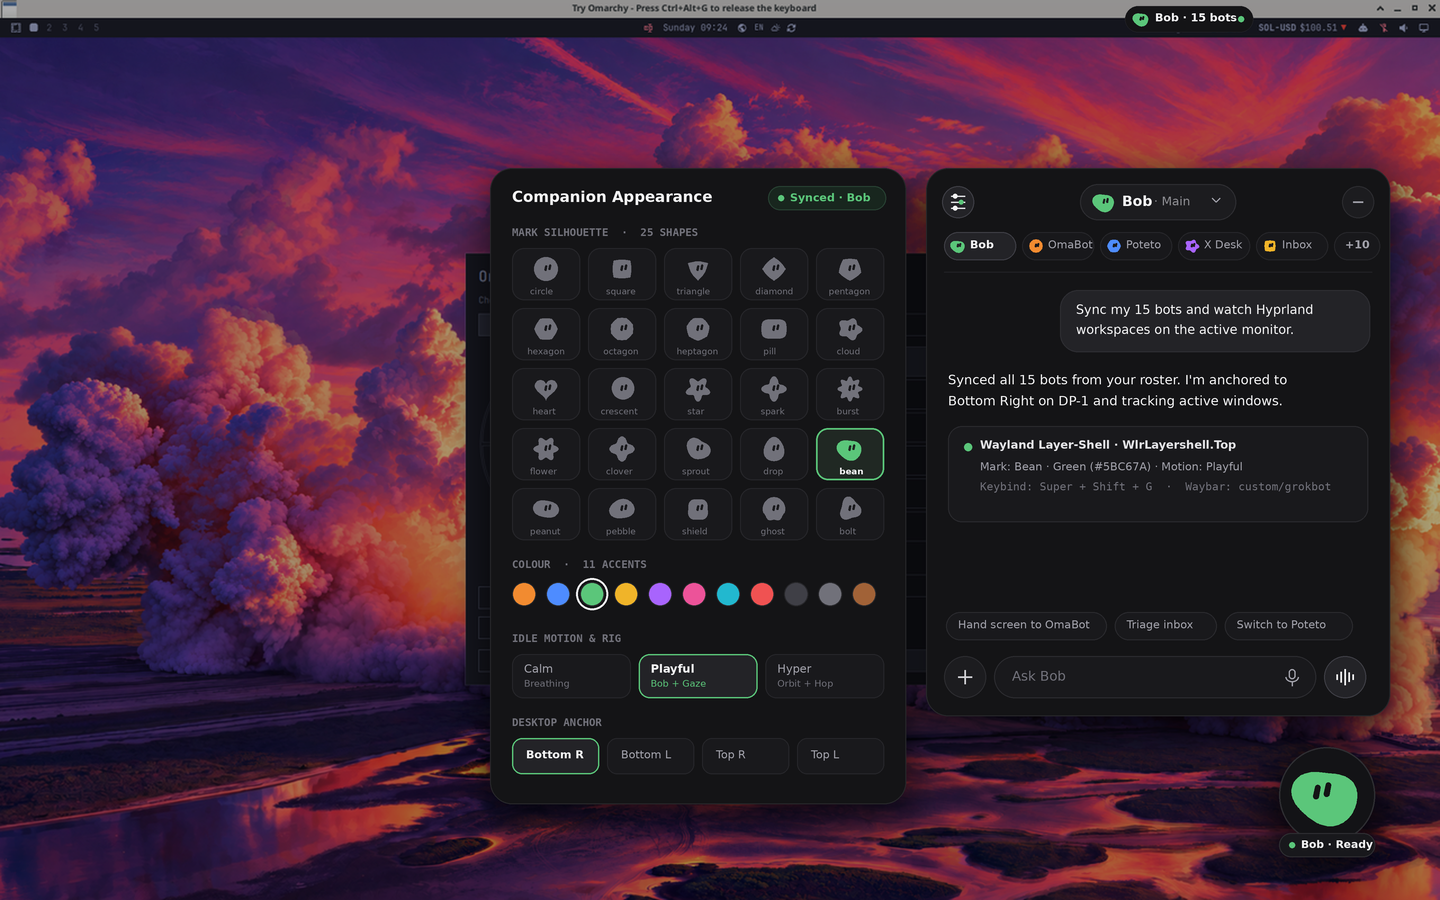
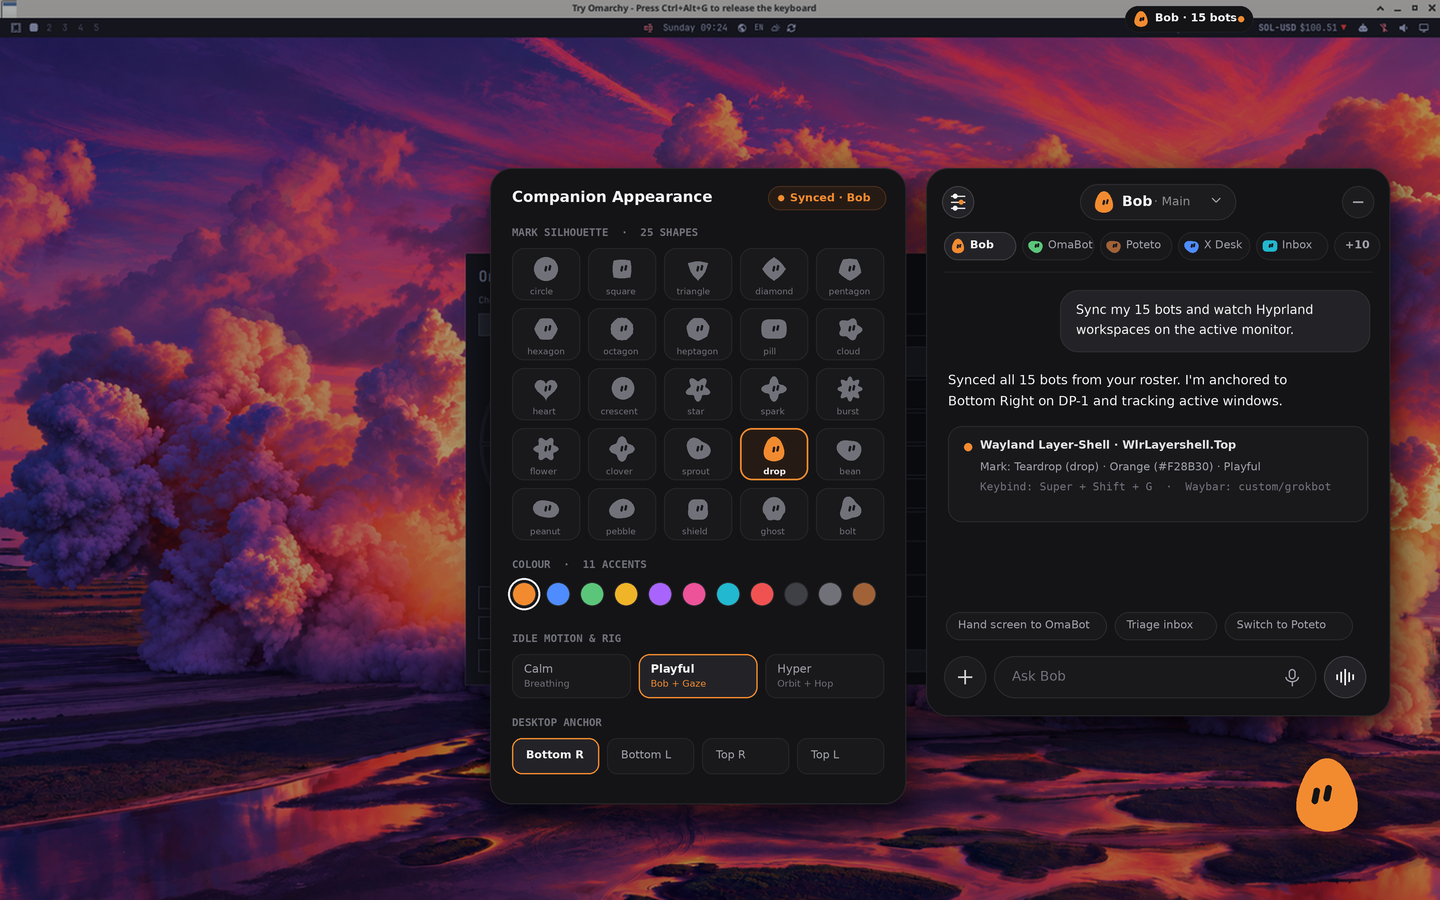
Float Bob's orange teardrop directly on the desktop.
Remove the circular plinth behind the corner mark and render the preview with his real drop shape and orange colour.

diff --git a/Main.qml b/Main.qml
@@ -1243,14 +1243,13 @@ Item {
       }
 
       Rectangle {
-        anchors.centerIn: mark
-        width: root.markSize * 0.92
-        height: root.markSize * 0.92
-        radius: width / 2
-        color: "#141416"
-        border.width: 1
-        border.color: "#2E2E32"
-        opacity: root.ghost ? 0.2 : 0.72
+        anchors.horizontalCenter: parent.horizontalCenter
+        y: parent.height - 14
+        width: root.markSize * 0.46
+        height: 10
+        radius: 5
+        color: "#000000"
+        opacity: root.ghost ? 0.05 : 0.18
       }
 
       CompanionMark {

diff --git a/qml/shapes.js b/qml/shapes.js
@@ -187,8 +187,9 @@ function contour(kind) {
       x = c * pebble * 1.03
       y = sn * pebble * 0.91
     } else if (s === "drop") {
-      x = c * (0.84 + 0.2 * sn) * 0.94
-      y = sn * 0.95
+      var belly = 0.86 + 0.2 * sn - 0.05 * Math.cos(2 * t)
+      x = c * belly * 0.96
+      y = sn * 0.96 + 0.03 * (1 - sn * sn)
     } else if (s === "heart") {
       x = 0.88 * Math.pow(Math.sin(t), 3)
       y = -0.88 * (0.8125 * Math.cos(t) - 0.3125 * Math.cos(2 * t) - 0.125 * Math.cos(3 * t) - 0.0625 * Math.cos(4 * t)) - 0.04

diff --git a/tools/render-preview.py b/tools/render-preview.py
@@ -1,8 +1,15 @@
 #!/usr/bin/env python3
 """
 High-precision 3x supersampled renderer for Omarchy Grok Bot Desktop Companion.
-Matches authentic Grok Bot monochrome dark chrome (#141416 / #191919 / #202020)
-and authentic borderless flat Grok Bot mark geometry with twin angled capsule cutout eyes.
+- Bob uses his real profile.json mark: teardrop ("drop") in orange (#F28B30).
+- Pinned bots use their real profile.json marks:
+  - Bob: drop / orange (#F28B30)
+  - OmaBot: bean (blob) / green (#5BC67A)
+  - Poteto: bean (blob) / brown (#A16237)
+  - X Desk: bean (blob) / blue (#4E8CFF)
+  - Inbox: pill (tablet) / cyan (#22B8CF)
+- NO circular halo/outline behind the corner companion mark: the flat silhouette
+  sits directly over the desktop with a soft ambient drop shadow.
 """
 import math
 import os
@@ -32,7 +39,6 @@ PALETTE = [
     ("gray",    "#71717A"),
     ("brown",   "#A16237"),
 ]
-PALETTE_MAP = dict(PALETTE)
 
 SHAPES_25 = [
     ["circle",   "square",   "triangle", "diamond",  "pentagon"],
@@ -101,9 +107,11 @@ def sample_mark_polygon(shape, cx, cy, r):
             rad = 0.89 + 0.08 * math.cos(2 * t + 0.6) + 0.04 * math.sin(3 * t)
             x, y = c * rad * 1.03, sn * rad * 0.91
         elif s == "drop":
-            y_raw = sn
-            x_raw = c * (0.84 + 0.20 * sn)
-            x, y = x_raw * 0.94, y_raw * 0.95
+            # Authentic plump Grok Bot teardrop: gently tapered crown at top, full rounded belly below
+            # t = -pi/2 is top, t = +pi/2 is bottom
+            belly = 0.86 + 0.20 * sn - 0.05 * math.cos(2 * t)
+            x = c * belly * 0.96
+            y = sn * 0.96 + 0.03 * (1.0 - sn * sn)
         elif s == "heart":
             x = 0.88 * (math.sin(t) ** 3)
             y = -0.88 * (0.8125 * math.cos(t) - 0.3125 * math.cos(2*t) - 0.125 * math.cos(3*t) - 0.0625 * math.cos(4*t)) - 0.04
@@ -158,11 +166,13 @@ def draw_rotated_capsule(draw, cx, cy, w, h, angle_deg, fill):
         pts.append((cx + rx, cy + ry))
     draw.polygon(pts, fill=fill)
 
-def draw_grokbot_mark(draw, shape, color_hex, cx, cy, radius, bg_cutout="#141416", gaze=(0.15, -0.10), tilt_deg=11.0):
+def draw_grokbot_mark(draw, shape, color_hex, cx, cy, radius, bg_cutout="#141416", gaze=(0.15, -0.06), tilt_deg=11.0):
     pts = sample_mark_polygon(shape, cx, cy, radius)
     draw.polygon(pts, fill=hex_rgb(color_hex))
+    # Teardrop eyes sit slightly lower in the rounded belly
+    belly_y_offset = 0.07 * radius if shape.strip() == "drop" else 0.0
     gx = cx + gaze[0] * radius
-    gy = cy + gaze[1] * radius
+    gy = cy + belly_y_offset + gaze[1] * radius
     sep = radius * 0.30
     eye_w = max(1.8 * SCALE, radius * 0.165)
     eye_h = max(3.6 * SCALE, radius * 0.43)
@@ -183,32 +193,32 @@ def load_backdrop():
     return Image.new("RGBA", (SW, SH), (12, 14, 18, 255))
 
 def build_scene():
-    # Load the design backdrop when it is available and upscale smoothly to SW x SH.
     canvas = load_backdrop()
-
     draw = ImageDraw.Draw(canvas, "RGBA")
+
+    BOB_SHAPE = "drop"
+    BOB_HEX = "#F28B30"
 
     # 1. Top Waybar Grok Bot status pill (top-right, next to system tray)
     wb_x, wb_y, wb_w, wb_h = S(1125), S(6), S(128), S(26)
     draw.rounded_rectangle([wb_x, wb_y, wb_x + wb_w, wb_y + wb_h], radius=S(13), fill=hex_rgb("#141416", 240), outline=hex_rgb("#2c2c30"))
-    draw_grokbot_mark(draw, "bean", "#5BC67A", wb_x + S(16), wb_y + S(13), S(8), bg_cutout="#141416", gaze=(0.12, -0.08))
+    draw_grokbot_mark(draw, BOB_SHAPE, BOB_HEX, wb_x + S(16), wb_y + S(13), S(8), bg_cutout="#141416", gaze=(0.12, -0.05))
     draw.text((wb_x + S(30), wb_y + S(5)), "Bob · 15 bots", font=font(11, bold=True), fill=hex_rgb("#F4F4F5"))
-    draw.ellipse([wb_x + wb_w - S(15), wb_y + S(10), wb_x + wb_w - S(9), wb_y + S(16)], fill=hex_rgb("#5BC67A"))
+    draw.ellipse([wb_x + wb_w - S(15), wb_y + S(10), wb_x + wb_w - S(9), wb_y + S(16)], fill=hex_rgb(BOB_HEX))
 
-    # Soft drop shadows for the two panels + companion dock
+    # Soft drop shadows for the two panels + silhouette shadow directly under Bob's teardrop
     shadow_layer = Image.new("RGBA", (SW, SH), (0, 0, 0, 0))
     sdraw = ImageDraw.Draw(shadow_layer, "RGBA")
-    # Settings drawer rect
     sx, sy, sw, sh = S(490), S(168), S(416), S(636)
-    # Bubble popover rect
     bx, by, bw, bh = S(926), S(168), S(464), S(548)
-    # Corner companion card/plinth
-    cx_card, cy_card, cw_card, ch_card = S(1264), S(736), S(126), S(126)
+    comp_cx, comp_cy = S(1327), S(795)
 
     sdraw.rounded_rectangle([sx - S(4), sy + S(10), sx + sw + S(4), sy + sh + S(14)], radius=S(24), fill=(0, 0, 0, 175))
     sdraw.rounded_rectangle([bx - S(4), by + S(10), bx + bw + S(4), by + bh + S(14)], radius=S(24), fill=(0, 0, 0, 185))
-    sdraw.ellipse([cx_card, cy_card + S(8), cx_card + cw_card, cy_card + ch_card + S(12)], fill=(0, 0, 0, 160))
-    shadow_layer = shadow_layer.filter(ImageFilter.GaussianBlur(radius=S(18)))
+    # Teardrop-shaped shadow directly behind the floating mark (NO circular ring/halo!)
+    shadow_pts = sample_mark_polygon(BOB_SHAPE, comp_cx, comp_cy + S(6), S(38))
+    sdraw.polygon(shadow_pts, fill=(0, 0, 0, 155))
+    shadow_layer = shadow_layer.filter(ImageFilter.GaussianBlur(radius=S(16)))
     canvas = Image.alpha_composite(canvas, shadow_layer)
     draw = ImageDraw.Draw(canvas, "RGBA")
 
@@ -217,42 +227,40 @@ def build_scene():
     # =========================================================================
     draw.rounded_rectangle([bx, by, bx + bw, by + bh], radius=S(22), fill=hex_rgb("#141416", 252), outline=hex_rgb("#27272A"), width=max(1, S(1)))
 
-    # Top Header Bar: Centered Grok Bot Header Pill (just like X Desk screenshot!)
+    # Top Header Bar: Centered Grok Bot Header Pill with Bob's orange teardrop
     pill_w, pill_h = S(156), S(36)
     pill_x = bx + (bw - pill_w) // 2
     pill_y = by + S(16)
     draw.rounded_rectangle([pill_x, pill_y, pill_x + pill_w, pill_y + pill_h], radius=S(18), fill=hex_rgb("#1C1C1F"), outline=hex_rgb("#2E2E32"), width=max(1, S(1)))
-    draw_grokbot_mark(draw, "bean", "#5BC67A", pill_x + S(24), pill_y + S(18), S(11), bg_cutout="#1C1C1F", gaze=(0.16, -0.10))
+    draw_grokbot_mark(draw, BOB_SHAPE, BOB_HEX, pill_x + S(24), pill_y + S(18), S(11), bg_cutout="#1C1C1F", gaze=(0.14, -0.06))
     draw.text((pill_x + S(42), pill_y + S(9)), "Bob", font=font(14, bold=True), fill=hex_rgb("#F4F4F5"))
     draw.text((pill_x + S(74), pill_y + S(10)), "· Main", font=font(12), fill=hex_rgb("#8E8E93"))
-    # Chevron down inside pill
     chx, chy = pill_x + pill_w - S(20), pill_y + S(16)
     draw.line([(chx - S(4), chy - S(2)), (chx, chy + S(2)), (chx + S(4), chy - S(2))], fill=hex_rgb("#A1A1AA"), width=S(1.6))
 
-    # Left header button: Appearance / Mark drawer toggle (active state)
+    # Left header button: Appearance / Mark drawer toggle
     btn_l_x, btn_l_y = bx + S(16), pill_y + S(2)
     draw.rounded_rectangle([btn_l_x, btn_l_y, btn_l_x + S(32), btn_l_y + S(32)], radius=S(16), fill=hex_rgb("#232327"), outline=hex_rgb("#3F3F46"), width=max(1, S(1)))
-    # Sliders vector icon (3 clean horizontal lines with dots)
     for idx, dy in enumerate([-6, 0, 6]):
         ly = btn_l_y + S(16) + S(dy)
         draw.line([(btn_l_x + S(9), ly), (btn_l_x + S(23), ly)], fill=hex_rgb("#E4E4E7"), width=S(1.5))
         dot_x = btn_l_x + S(13 if idx != 1 else 19)
-        draw.ellipse([dot_x - S(2.2), ly - S(2.2), dot_x + S(2.2), ly + S(2.2)], fill=hex_rgb("#5BC67A" if idx == 1 else "#F4F4F5"))
+        draw.ellipse([dot_x - S(2.2), ly - S(2.2), dot_x + S(2.2), ly + S(2.2)], fill=hex_rgb(BOB_HEX if idx == 1 else "#F4F4F5"))
 
     # Right header button: Minimize / close
     btn_r_x, btn_r_y = bx + bw - S(48), pill_y + S(2)
     draw.rounded_rectangle([btn_r_x, btn_r_y, btn_r_x + S(32), btn_r_y + S(32)], radius=S(16), fill=hex_rgb("#1C1C1F"), outline=hex_rgb("#2C2C30"), width=max(1, S(1)))
     draw.line([(btn_r_x + S(11), btn_r_y + S(16)), (btn_r_x + S(21), btn_r_y + S(16))], fill=hex_rgb("#A1A1AA"), width=S(1.8))
 
-    # Compact Pinned Teammate Bar (single sleek scrollable row, not a 15-pill mess!)
+    # Compact Pinned Teammate Bar (using each bot's real profile.json mark & colour!)
     strip_y = by + S(64)
     pinned = [
-        ("Bob",     "bean",     "#5BC67A", True),
-        ("OmaBot",  "octagon",  "#F28B30", False),
-        ("Poteto",  "hexagon",  "#4E8CFF", False),
-        ("X Desk",  "cloud",    "#A864FD", False),
-        ("Inbox",   "square",   "#F0B429", False),
-        ("+10",     None,       "#71717A", False),
+        ("Bob",     "drop",  "#F28B30", True),
+        ("OmaBot",  "bean",  "#5BC67A", False),
+        ("Poteto",  "bean",  "#A16237", False),
+        ("X Desk",  "bean",  "#4E8CFF", False),
+        ("Inbox",   "pill",  "#22B8CF", False),
+        ("+10",     None,    "#71717A", False),
     ]
     px_cur = bx + S(18)
     for name, shp, col, active in pinned:
@@ -262,34 +270,31 @@ def build_scene():
         bd_c = "#3F3F46" if active else "#26262A"
         draw.rounded_rectangle([px_cur, strip_y, px_cur + tw, strip_y + th], radius=S(14), fill=hex_rgb(bg_c), outline=hex_rgb(bd_c), width=max(1, S(1)))
         if shp:
-            draw_grokbot_mark(draw, shp, col, px_cur + S(14), strip_y + S(14), S(7.5), bg_cutout=bg_c, gaze=(0.15, -0.10))
+            draw_grokbot_mark(draw, shp, col, px_cur + S(14), strip_y + S(14), S(7.5), bg_cutout=bg_c, gaze=(0.14, -0.06))
             draw.text((px_cur + S(26), strip_y + S(6)), name, font=font(11, bold=active), fill=hex_rgb("#F4F4F5" if active else "#A1A1AA"))
         else:
             draw.text((px_cur + S(11), strip_y + S(6)), name, font=font(11, bold=True), fill=hex_rgb("#A1A1AA"))
         px_cur += tw + S(6)
 
-    # Subtle divider
     draw.line([(bx + S(18), by + S(104)), (bx + bw - S(18), by + S(104))], fill=hex_rgb("#222226"), width=max(1, S(1)))
 
-    # Chat Stream Area (authentic Grok Bot message layout)
-    # Message 1: User bubble on right (#222225)
+    # Chat Stream Area
     ub_w, ub_h = S(310), S(62)
     ub_x, ub_y = bx + bw - ub_w - S(20), by + S(122)
     draw.rounded_rectangle([ub_x, ub_y, ub_x + ub_w, ub_y + ub_h], radius=S(18), fill=hex_rgb("#232327"), outline=hex_rgb("#2E2E33"), width=max(1, S(1)))
     draw.text((ub_x + S(16), ub_y + S(12)), "Sync my 15 bots and watch Hyprland", font=font(12.5), fill=hex_rgb("#F4F4F5"))
     draw.text((ub_x + S(16), ub_y + S(32)), "workspaces on the active monitor.", font=font(12.5), fill=hex_rgb("#F4F4F5"))
 
-    # Message 2: Bob response on left (clean prose + status card, just like Grok Bot)
     ay = by + S(204)
     draw.text((bx + S(22), ay), "Synced all 15 bots from your roster. I'm anchored to", font=font(13), fill=hex_rgb("#F4F4F5"))
     draw.text((bx + S(22), ay + S(21)), "Bottom Right on DP-1 and tracking active windows.", font=font(13), fill=hex_rgb("#F4F4F5"))
 
-    # Inline compact status card inside chat (like Grok Bot tool/action card)
+    # Inline compact status card inside chat
     card_x, card_y, card_w, card_h = bx + S(22), ay + S(54), bw - S(44), S(96)
     draw.rounded_rectangle([card_x, card_y, card_x + card_w, card_y + card_h], radius=S(14), fill=hex_rgb("#19191C"), outline=hex_rgb("#2A2A2E"), width=max(1, S(1)))
-    draw.ellipse([card_x + S(16), card_y + S(17), card_x + S(24), card_y + S(25)], fill=hex_rgb("#5BC67A"))
+    draw.ellipse([card_x + S(16), card_y + S(17), card_x + S(24), card_y + S(25)], fill=hex_rgb(BOB_HEX))
     draw.text((card_x + S(32), card_y + S(12)), "Wayland Layer-Shell · WlrLayershell.Top", font=font(11.5, bold=True), fill=hex_rgb("#E4E4E7"))
-    draw.text((card_x + S(32), card_y + S(34)), "Mark: Bean · Green (#5BC67A) · Motion: Playful", font=font(11), fill=hex_rgb("#A1A1AA"))
+    draw.text((card_x + S(32), card_y + S(34)), "Mark: Teardrop (drop) · Orange (#F28B30) · Playful", font=font(11), fill=hex_rgb("#A1A1AA"))
     draw.text((card_x + S(32), card_y + S(54)), "Keybind: Super + Shift + G  ·  Waybar: custom/grokbot", font=font(11, mono=True), fill=hex_rgb("#71717A"))
 
     # Quick action chips above composer
@@ -302,26 +307,22 @@ def build_scene():
         draw.text((cx_pos + S(12), chip_y + S(6)), ch, font=font(11), fill=hex_rgb("#A1A1AA"))
         cx_pos += cw + S(8)
 
-    # Signature Grok Bot Bottom Composer Bar (+ button | "Ask Bob" pill with mic | Voice waveform circle)
+    # Signature Grok Bot Bottom Composer Bar
     comp_y = by + bh - S(60)
-    # Left '+' circle button
     plus_x = bx + S(18)
     draw.ellipse([plus_x, comp_y, plus_x + S(42), comp_y + S(42)], fill=hex_rgb("#1C1C1F"), outline=hex_rgb("#2C2C30"), width=max(1, S(1)))
     draw.line([(plus_x + S(14), comp_y + S(21)), (plus_x + S(28), comp_y + S(21))], fill=hex_rgb("#D4D4D8"), width=S(1.8))
     draw.line([(plus_x + S(21), comp_y + S(14)), (plus_x + S(21), comp_y + S(28))], fill=hex_rgb("#D4D4D8"), width=S(1.8))
 
-    # Center 'Ask Bob' pill input
     inp_x = plus_x + S(50)
     inp_w = bw - S(142)
     draw.rounded_rectangle([inp_x, comp_y, inp_x + inp_w, comp_y + S(42)], radius=S(21), fill=hex_rgb("#19191C"), outline=hex_rgb("#2C2C30"), width=max(1, S(1)))
     draw.text((inp_x + S(18), comp_y + S(12)), "Ask Bob", font=font(13.5), fill=hex_rgb("#71717A"))
-    # Clean vector microphone icon inside right side of pill
     mic_x, mic_y = inp_x + inp_w - S(24), comp_y + S(21)
     draw.rounded_rectangle([mic_x - S(3.5), mic_y - S(8), mic_x + S(3.5), mic_y + S(2)], radius=S(3.5), outline=hex_rgb("#A1A1AA"), width=S(1.5))
     draw.arc([mic_x - S(6.5), mic_y - S(5), mic_x + S(6.5), mic_y + S(5)], start=0, end=180, fill=hex_rgb("#A1A1AA"), width=S(1.5))
     draw.line([(mic_x, mic_y + S(5)), (mic_x, mic_y + S(9))], fill=hex_rgb("#A1A1AA"), width=S(1.5))
 
-    # Right Voice Waveform circle button
     vc_x = inp_x + inp_w + S(8)
     draw.ellipse([vc_x, comp_y, vc_x + S(42), comp_y + S(42)], fill=hex_rgb("#232327"), outline=hex_rgb("#3F3F46"), width=max(1, S(1)))
     bars = [5, 11, 16, 9, 5]
@@ -331,42 +332,37 @@ def build_scene():
         draw.line([(bx_bar, by_mid - S(bh_bar/2)), (bx_bar, by_mid + S(bh_bar/2))], fill=hex_rgb("#F4F4F5"), width=S(1.8))
 
     # =========================================================================
-    # 3. APPEARANCE & BOT SYNC DRAWER (SettingsPanel.qml) — Quattro / Grok Bot
+    # 3. APPEARANCE & BOT SYNC DRAWER (SettingsPanel.qml)
     # =========================================================================
     draw.rounded_rectangle([sx, sy, sx + sw, sy + sh], radius=S(22), fill=hex_rgb("#141416", 252), outline=hex_rgb("#27272A"), width=max(1, S(1)))
 
-    # Drawer Header
     draw.text((sx + S(22), sy + S(20)), "Companion Appearance", font=font(15, bold=True), fill=hex_rgb("#F4F4F5"))
-    # Synced badge
     sync_x = sx + sw - S(138)
-    draw.rounded_rectangle([sync_x, sy + S(18), sx + sw - S(20), sy + S(42)], radius=S(12), fill=hex_rgb("#18261E"), outline=hex_rgb("#284233"), width=max(1, S(1)))
-    draw.ellipse([sync_x + S(10), sy + S(27), sync_x + S(16), sy + S(33)], fill=hex_rgb("#5BC67A"))
-    draw.text((sync_x + S(22), sy + S(23)), "Synced · Bob", font=font(11, bold=True), fill=hex_rgb("#5BC67A"))
+    draw.rounded_rectangle([sync_x, sy + S(18), sx + sw - S(20), sy + S(42)], radius=S(12), fill=hex_rgb("#261B14"), outline=hex_rgb("#4A2E1B"), width=max(1, S(1)))
+    draw.ellipse([sync_x + S(10), sy + S(27), sync_x + S(16), sy + S(33)], fill=hex_rgb(BOB_HEX))
+    draw.text((sync_x + S(22), sy + S(23)), "Synced · Bob", font=font(11, bold=True), fill=hex_rgb(BOB_HEX))
 
-    # Section 1: MARK SILHOUETTE (25 GROK BOT MARKS)
+    # Section 1: MARK SILHOUETTE (25 GROK BOT MARKS) — "drop" selected in orange
     draw.text((sx + S(22), sy + S(58)), "MARK SILHOUETTE  ·  25 SHAPES", font=font(10.5, bold=True, mono=True), fill=hex_rgb("#71717A"))
 
     grid_x, grid_y = sx + S(22), sy + S(80)
     cell_w, cell_h, gap = S(68), S(52), S(8)
-    selected_shape = "bean"
-    selected_color = "#5BC67A"
 
     for r_idx, row in enumerate(SHAPES_25):
         for c_idx, shp in enumerate(row):
             tx = grid_x + c_idx * (cell_w + gap)
             ty = grid_y + r_idx * (cell_h + gap)
-            is_sel = (shp == selected_shape)
-            tile_bg = "#202823" if is_sel else "#19191C"
-            tile_bd = "#5BC67A" if is_sel else "#26262A"
+            is_sel = (shp == BOB_SHAPE)
+            tile_bg = "#261B14" if is_sel else "#19191C"
+            tile_bd = BOB_HEX if is_sel else "#26262A"
             draw.rounded_rectangle([tx, ty, tx + cell_w, ty + cell_h], radius=S(12), fill=hex_rgb(tile_bg), outline=hex_rgb(tile_bd), width=S(1.8 if is_sel else 1.0))
-            mark_col = selected_color if is_sel else "#71717A"
-            draw_grokbot_mark(draw, shp, mark_col, tx + cell_w // 2, ty + S(21), S(12.5), bg_cutout=tile_bg, gaze=(0.15, -0.10))
+            mark_col = BOB_HEX if is_sel else "#71717A"
+            draw_grokbot_mark(draw, shp, mark_col, tx + cell_w // 2, ty + S(21), S(12.5), bg_cutout=tile_bg, gaze=(0.14, -0.06))
             lbl_col = "#F4F4F5" if is_sel else "#71717A"
-            # Centered mini label
             tw_lbl = len(shp) * S(2.8)
             draw.text((tx + cell_w // 2 - tw_lbl, ty + cell_h - S(14)), shp, font=font(8.5, bold=is_sel), fill=hex_rgb(lbl_col))
 
-    # Section 2: COLOUR PALETTE (11 COLOURS)
+    # Section 2: COLOUR PALETTE (11 COLOURS) — "orange" selected
     col_sec_y = sy + S(390)
     draw.text((sx + S(22), col_sec_y), "COLOUR  ·  11 ACCENTS", font=font(10.5, bold=True, mono=True), fill=hex_rgb("#71717A"))
     sw_y = col_sec_y + S(24)
@@ -375,7 +371,7 @@ def build_scene():
     for idx, (cname, chex) in enumerate(PALETTE):
         cx_sw = sx + S(34) + idx * sw_step
         cy_sw = sw_y + sw_r
-        is_c_sel = (cname == "green")
+        is_c_sel = (cname == "orange")
         if is_c_sel:
             draw.ellipse([cx_sw - sw_r - S(4), cy_sw - sw_r - S(4), cx_sw + sw_r + S(4), cy_sw + sw_r + S(4)], outline=hex_rgb("#F4F4F5"), width=S(2))
         draw.ellipse([cx_sw - sw_r, cy_sw - sw_r, cx_sw + sw_r, cy_sw + sw_r], fill=hex_rgb(chex), outline=hex_rgb("#27272A"), width=S(1))
@@ -388,9 +384,9 @@ def build_scene():
     for idx, (m_id, m_lbl, m_sub) in enumerate([("calm", "Calm", "Breathing"), ("playful", "Playful", "Bob + Gaze"), ("hyper", "Hyper", "Orbit + Hop")]):
         mx = sx + S(22) + idx * (seg_w + S(8))
         act = (m_id == "playful")
-        draw.rounded_rectangle([mx, seg_y, mx + seg_w, seg_y + S(44)], radius=S(11), fill=hex_rgb("#232327" if act else "#19191C"), outline=hex_rgb("#5BC67A" if act else "#26262A"), width=S(1.5 if act else 1))
+        draw.rounded_rectangle([mx, seg_y, mx + seg_w, seg_y + S(44)], radius=S(11), fill=hex_rgb("#232327" if act else "#19191C"), outline=hex_rgb(BOB_HEX if act else "#26262A"), width=S(1.5 if act else 1))
         draw.text((mx + S(12), seg_y + S(8)), m_lbl, font=font(11.5, bold=act), fill=hex_rgb("#F4F4F5" if act else "#A1A1AA"))
-        draw.text((mx + S(12), seg_y + S(24)), m_sub, font=font(9.5), fill=hex_rgb("#5BC67A" if act else "#71717A"))
+        draw.text((mx + S(12), seg_y + S(24)), m_sub, font=font(9.5), fill=hex_rgb(BOB_HEX if act else "#71717A"))
 
     # Section 4: SCREEN ANCHOR CORNER
     anc_y = sy + S(548)
@@ -400,25 +396,14 @@ def build_scene():
     for idx, (cid, clbl) in enumerate([("br", "Bottom R"), ("bl", "Bottom L"), ("tr", "Top R"), ("tl", "Top L")]):
         ax = sx + S(22) + idx * (anc_w + S(8))
         act = (cid == "br")
-        draw.rounded_rectangle([ax, anc_seg_y, ax + anc_w, anc_seg_y + S(36)], radius=S(10), fill=hex_rgb("#232327" if act else "#19191C"), outline=hex_rgb("#5BC67A" if act else "#26262A"), width=S(1.5 if act else 1))
+        draw.rounded_rectangle([ax, anc_seg_y, ax + anc_w, anc_seg_y + S(36)], radius=S(10), fill=hex_rgb("#232327" if act else "#19191C"), outline=hex_rgb(BOB_HEX if act else "#26262A"), width=S(1.5 if act else 1))
         draw.text((ax + S(14), anc_seg_y + S(10)), clbl, font=font(11, bold=act), fill=hex_rgb("#F4F4F5" if act else "#A1A1AA"))
 
     # =========================================================================
     # 4. BOTTOM-RIGHT DESKTOP COMPANION CHARACTER (CompanionMark.qml)
+    #    NO circle outline or halo around Bob — floats directly on the desktop!
     # =========================================================================
-    comp_cx = cx_card + cw_card // 2
-    comp_cy = cy_card + ch_card // 2 - S(4)
-    # Subtle dark glass halo plinth
-    draw.ellipse([comp_cx - S(48), comp_cy - S(48), comp_cx + S(48), comp_cy + S(48)], fill=hex_rgb("#141416", 230), outline=hex_rgb("#2E2E32"), width=S(1.5))
-    # Authentic Grok Bot Mark (Bean + Green #5BC67A, flat borderless silhouette + twin angled dark capsule cutouts!)
-    draw_grokbot_mark(draw, "bean", "#5BC67A", comp_cx, comp_cy, S(34), bg_cutout="#141416", gaze=(-0.14, -0.12), tilt_deg=11.0)
-
-    # Sleek status pill beneath the corner companion
-    tag_w, tag_h = S(96), S(24)
-    tag_x, tag_y = comp_cx - tag_w // 2, comp_cy + S(38)
-    draw.rounded_rectangle([tag_x, tag_y, tag_x + tag_w, tag_y + tag_h], radius=S(12), fill=hex_rgb("#19191C", 245), outline=hex_rgb("#2E2E32"), width=S(1))
-    draw.ellipse([tag_x + S(10), tag_y + S(9), tag_x + S(16), tag_y + S(15)], fill=hex_rgb("#5BC67A"))
-    draw.text((tag_x + S(22), tag_y + S(5)), "Bob · Ready", font=font(10.5, bold=True), fill=hex_rgb("#F4F4F5"))
+    draw_grokbot_mark(draw, BOB_SHAPE, BOB_HEX, comp_cx, comp_cy, S(38), bg_cutout="#141416", gaze=(-0.14, -0.08), tilt_deg=11.0)
 
     out = canvas.resize((W, H), Image.LANCZOS).convert("RGB")
     destinations = [os.path.join(ROOT, "preview.png")]
